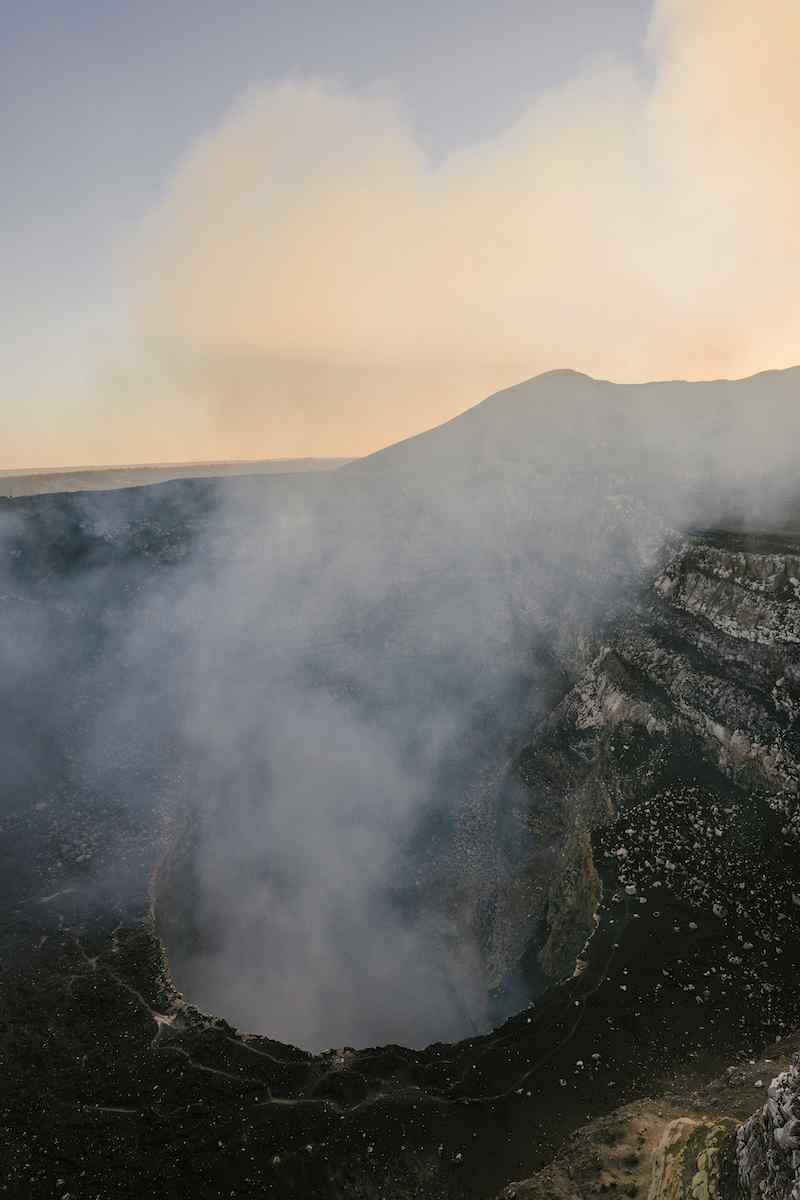
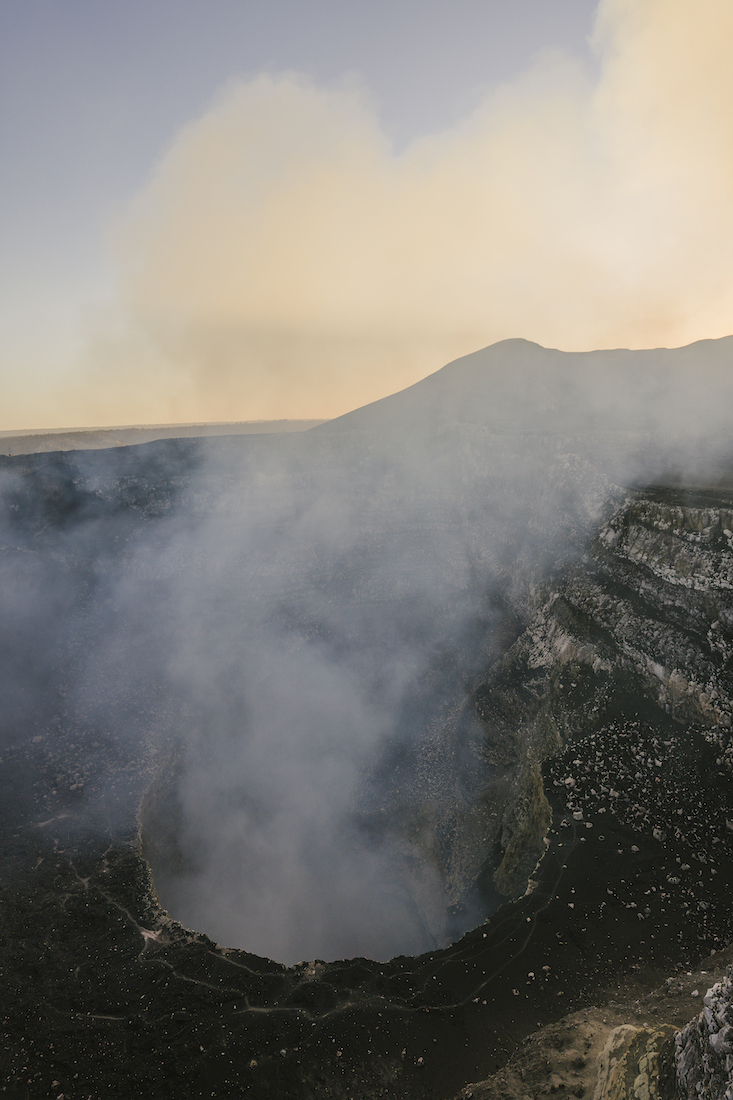
repaired all banding issues

diff --git a/src/components/about.js b/src/components/about.js
@@ -104,6 +104,47 @@ return(
           </Row>
         </Col>
       </Row>
+
+      <Row className = 'roaming-white vertical-padding-md centered-children'>
+
+      <Col xs={3} sm={3} md={3} lg={3} xl={3}>
+        &nbsp;
+      </Col>
+      <Col xs={6} sm={6} md={6} lg={6} xl={6}>
+        <p className = 'roaming-yellow-text roaming-text-md centered-text'>Who Are Alia & Shawn?</p>
+        <p className = 'roaming-black-text roaming-text-sm'>We’re a twenty-something married couple who met when we were 18 in our university residence. Alia was studying photography and wanted to move to New York City and be a fashion photographer, Shawn was studying aerospace engineering and wanted to adopt a husky and build a cabin in the woods. After 6 months of being in the same friend group, this unlikely duo fell for each other and found out they actually had a ton of similarities. After 5 years together, once we had finished our degrees, we decided to have a small 8 person wedding and say ‘I do’ to forever. Our post-degree interests each changed a few times over by the time we got married, and we began working in our respective fields unsure of what the future held.</p>
+
+        <p className = 'roaming-yellow-text roaming-text-md centered-text'>Why we started traveling:</p>
+        <p className = 'roaming-black-text roaming-text-sm'>Our travel bug started when we were planning our honeymoon back in 2019. Both of us having just finished university and gotten married, we finally began thinking about where in the world we would like to go. We began watching youtube videos, found amazing travel vloggers, began reading Conde Nast Traveler, and admired many travel blogs. Suddenly our list of potential honeymoon destinations grew a couple pages long. The travel bug bit us hard. </p>
+        <p className = 'roaming-black-text roaming-text-sm'>Since we only had a short period of time during the Christmas holidays we decided to go to Mexico City and Cancun because we wanted some sunshine and some tacos without a long travel day… who doesn’t? </p>
+        <p className = 'roaming-black-text roaming-text-sm'>We promised ourselves that our honeymoon in Mexico was the beginning of prioritizing travel in our life and decided that we would save up and backpack Europe in the summer of 2020. </p>
+        <p className = 'roaming-black-text roaming-text-sm'>Well, we all know what happened in 2020…and safe to say all of our travel dreams got put on hold. Instead, we moved across the country and began living in Vancouver, BC. We fell in love with hiking, biking, and the outdoors. We became more conscious of the climate crisis and decided to become vegan. While our days in Vancouver were incredible, and we did get to do lots of local travel, our travel bug intensified with time. </p>
+        <p className = 'roaming-black-text roaming-text-sm'>In the summer of 2021, we sat on a picnic blanket looking out to Vancouver’s False Creek and rewrote a list of all the places we wanted to travel. The list looked a bit different from 2 years prior, but one thing that stayed the same was that it was several pages long. Our potential trips we wanted to make once the pandemic was behind us grew longer as the sun disappeared behind the mountains. We spent more evenings in the park revisiting the list until it morphed into a massive five-year timeline with 15 separate trips planned.</p>
+        <p className = 'roaming-black-text roaming-text-sm'>We realized that our list did not fit into any of our budgets: financial, time off, or carbon footprint. Our environmental impact has always been important to us, but it had become even more so since our move to Vancouver. We wondered if it was possible to travel while keeping our carbon footprint in mind, and that’s when we realized that traveling full-time could be the way to do it.</p>
+        <p className = 'roaming-black-text roaming-text-sm'>Since Shawn was working remotely already, and Alia is a freelance photographer, we realized now was a good time in our life to consider full-time travel. Safe to say, it did not take long to convince ourselves that we could make it work. </p>
+        <p className = 'roaming-black-text roaming-text-sm'>A few months later, we sold 75% of our things, packed up our Vancouver apartment, and booked a one way flight to Nicaragua with a rough plan to try and make it down to Peru or Bolivia. </p>
+
+        <p className = 'roaming-yellow-text roaming-text-md centered-text'>Traveling carbon-consciously:</p>
+        <p className = 'roaming-black-text roaming-text-sm'>Before we began traveling, we decided to make our best effort to travel at or below the footprint of the average Canadian. We had no idea if this was possible or not, but it was a challenge we wanted to take on. </p>
+        <p className = 'roaming-black-text roaming-text-sm'>Our plan of action on how to do this would include the following:</p>
+        <p className = 'roaming-black-text roaming-text-sm'>- Keep eating plant-based </p>
+        <p className = 'roaming-black-text roaming-text-sm'>- Travel slowly & sequentially</p>
+        <p className = 'roaming-black-text roaming-text-sm'>- Avoiding flights as much as possible </p>
+        <p className = 'roaming-black-text roaming-text-sm'>- Staying in small hostels or eco-accommodations</p>
+        <p className = 'roaming-black-text roaming-text-sm'>- Buying local food & cooking ourselves</p>
+        <p className = 'roaming-black-text roaming-text-sm'>- Not buying new clothes/items</p>
+
+        <p className = 'roaming-black-text roaming-text-sm'>Shawn got to work on building a carbon footprint calculator that would assist us on tracking our travels. When we began traveling we realized that even though our flight to Central America, and a couple flights between destinations, were very costly towards our carbon footprint goals, other things we were doing like eating plant-based and taking many long distance bus journeys, were averaging us down considerably. This challenge of ours led us to building this platform to document our journey, share our travel experiences and what we’ve learnt trying to travel sustainably, so others could travel with their carbon footprint in mind too.</p>
+        <p className = 'roaming-black-text roaming-text-sm'>For us, carbon-conscious travel is really about doing your best. If you can take long night buses, eat plant-based, travel for months at a time, and stay in shared dorms everywhere you go, great! But if you have a bad back, have other dietary restrictions that make plant-based eating difficult, have a job or family you can’t leave for long, or can’t imagine sleeping in a room full of strangers, that’s alright too. The idea behind carbon-conscious travel is taking your carbon footprint into consideration, along with your safety and comfort, to choose the mode of travel that is best for you and the planet. Naysayers will say that if you care about the climate crisis you shouldn’t travel at all, but we believe it’s important to actually explore the world to see for yourself why it’s worth saving. </p>
+        <p className = 'roaming-black-text roaming-text-sm'>That’s why along with our sustainable travel content, we share travel inspiration (in our galleries!) and location guides. You can read more sustainable travel content and find our guides on our blog. </p>
+
+
+      </Col>
+      <Col xs={3} sm={3} md={3} lg={3} xl={3}>
+        &nbsp;
+      </Col>
+
+      </Row>
       <Footer isMobile={this.state.isMobile}/>
     </div>
 

diff --git a/src/components/galleries/granada.js b/src/components/galleries/granada.js
@@ -4,7 +4,6 @@ import  { useState,useEffect } from 'react';
 
 import granada10 from '../../assets/galleries/granada/granada10.jpg'
 import granada6 from '../../assets/galleries/granada/granada6.jpg'
-
 import granada4 from '../../assets/galleries/granada/granada4.jpg'
 import granada5 from '../../assets/galleries/granada/granada5.jpg'
 import granada3 from '../../assets/galleries/granada/granada3.jpg'
@@ -60,7 +59,7 @@ return(
 
                            {type:'horizontalImage',src:granada6},
                            {type:'diptych',src1:granada4,src2:granada5},
-                           {type:'horizontalImage',granada3},
+                           {type:'horizontalImage',src:granada3},
                            {type:'diptych',src1:granada2,src2:granada1},
                            {type:'horizontalImage',src:granada11},
                            {type:'diptych',src1:granada14,src2:granada13},
